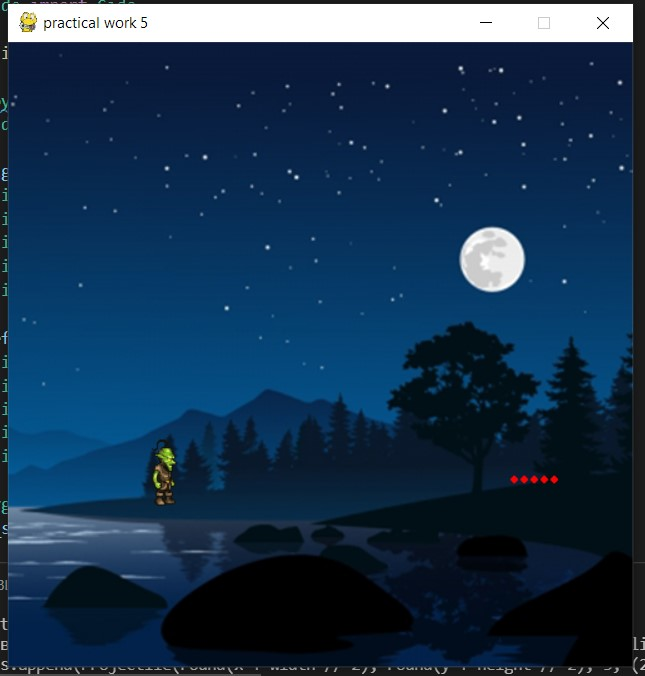
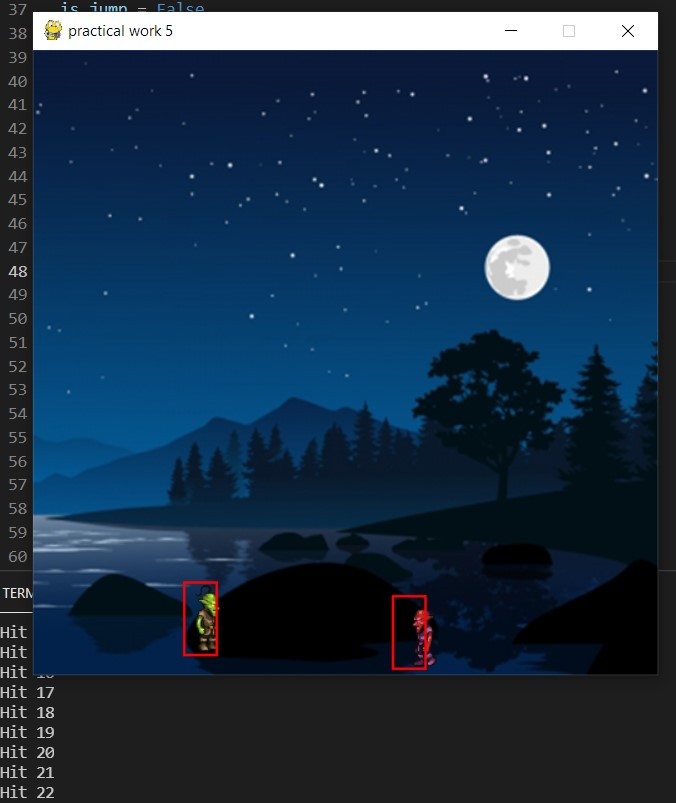
changed path and updated images

diff --git a/practical_work_7.py b/practical_work_7.py
@@ -45,7 +45,7 @@ last_direction = Side.RIGHT
 
 shoot_loop = 0
 
-goblin = Enemy(100, 436, 64, 5, 495)
+goblin = Enemy(5, 436, 64, 64, 495)
 
 def draw_window():
     global anim_count

diff --git a/README.md b/README.md
@@ -4,3 +4,4 @@
 
 ## Рузультати виконання програми
 ![7-1 result](https://github.com/whiteman1989/Python_practical_work_7/blob/master/images/work_res_7-1.jpg?raw=true)
+![7-2 result](https://github.com/whiteman1989/Python_practical_work_7/blob/master/images/work_res_7-2.jpg?raw=true)
